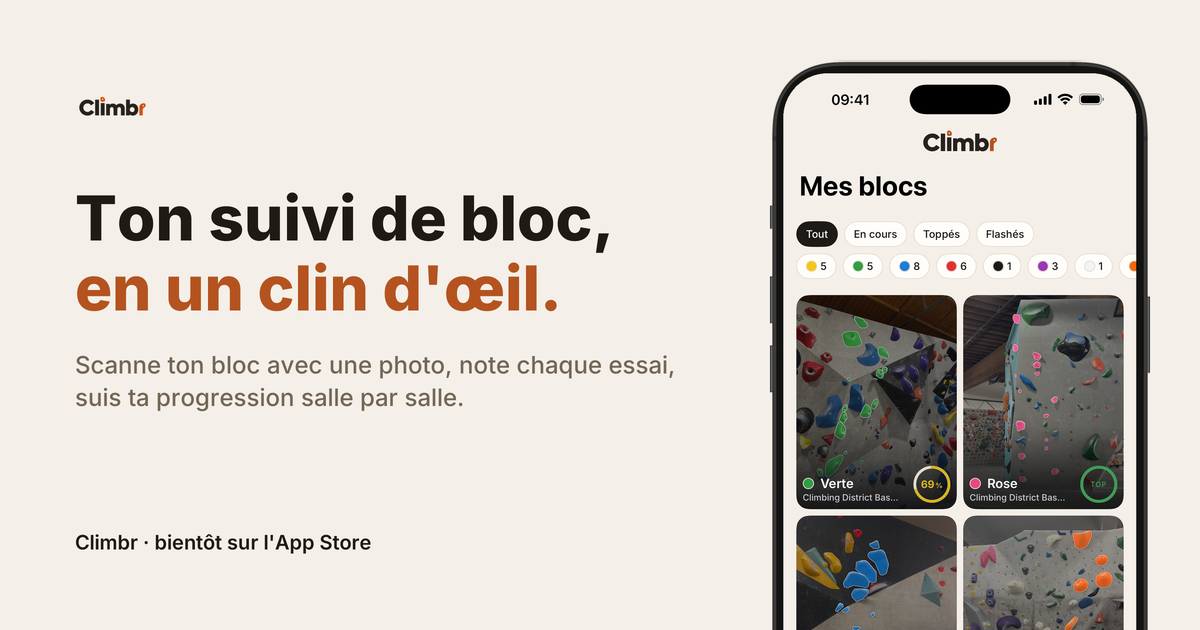
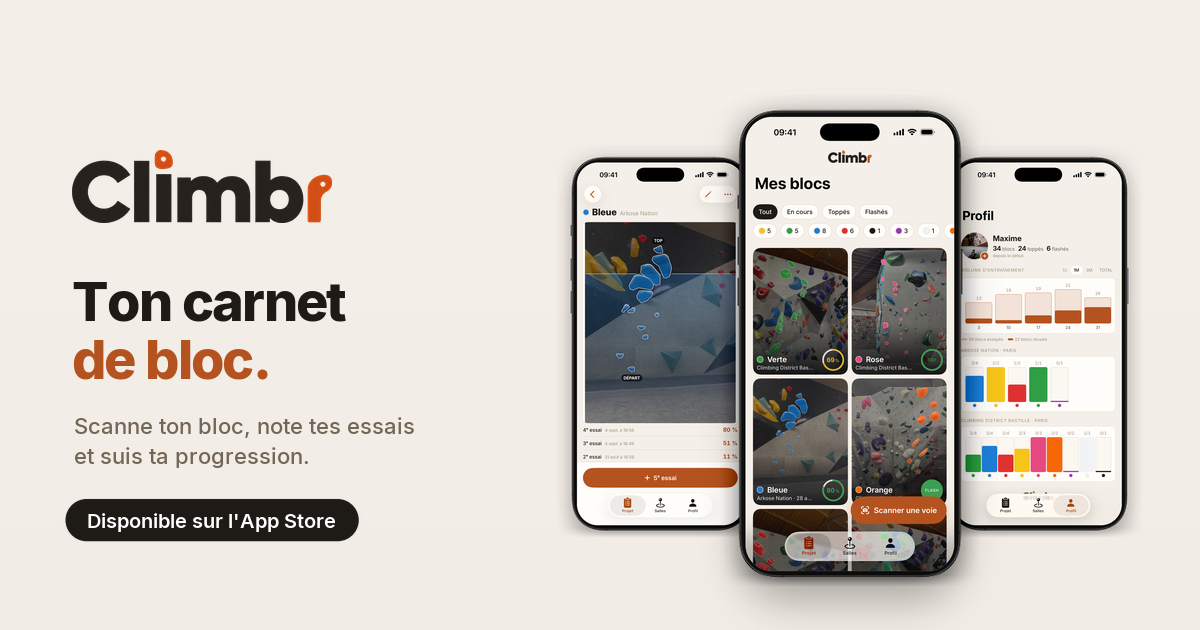
Climbr : le site suit la sortie et la couverture Instagram
Titre « Ton carnet de bloc », sous-titre « Scanne ton bloc, note tes essais
et suis ta progression », lien App Store dans la navbar, le hero, la carte
finale et le pied de page. Le trio du hero reprend la couverture Instagram :
côtés à 80 %, centrés, recouverts de 10 px. Mail de l'app climbr@, mail du
studio contact@. Image de partage régénérée.

Claude-Session: https://claude.ai/code/session_016HCjEFUwLvcaV6eQVwG82k

diff --git a/climbr/index.html b/climbr/index.html
@@ -3,8 +3,8 @@
 <head>
     <meta charset="UTF-8">
     <meta name="viewport" content="width=device-width, initial-scale=1.0">
-    <title>Climbr — Ton suivi de bloc en un clin d'œil</title>
-    <meta name="description" content="Climbr est le carnet de bloc de ceux qui grimpent en salle. Scanne ton bloc avec une photo, note chaque essai, suis ta progression salle par salle.">
+    <title>Climbr — Ton carnet de bloc</title>
+    <meta name="description" content="Climbr est le carnet de bloc de ceux qui grimpent en salle. Scanne ton bloc, note tes essais et suis ta progression, salle par salle. Disponible sur l'App Store.">
     <link rel="canonical" href="https://athanor-studio.io/climbr/">
     <meta name="theme-color" content="#F4EFE8">
 
@@ -12,18 +12,18 @@
     <meta property="og:type" content="website">
     <meta property="og:site_name" content="Climbr">
     <meta property="og:url" content="https://athanor-studio.io/climbr/">
-    <meta property="og:title" content="Climbr — Ton suivi de bloc en un clin d'œil">
-    <meta property="og:description" content="Scanne ton bloc avec une photo, note chaque essai, suis ta progression salle par salle.">
+    <meta property="og:title" content="Climbr — Ton carnet de bloc">
+    <meta property="og:description" content="Scanne ton bloc, note tes essais et suis ta progression. Disponible sur l'App Store.">
     <meta property="og:image" content="https://athanor-studio.io/climbr/og-image.png">
     <meta property="og:image:width" content="1200">
     <meta property="og:image:height" content="630">
-    <meta property="og:image:alt" content="Climbr — Ton suivi de bloc en un clin d'œil">
+    <meta property="og:image:alt" content="Climbr — Ton carnet de bloc">
     <meta property="og:locale" content="fr_FR">
 
     <!-- Twitter -->
     <meta name="twitter:card" content="summary_large_image">
-    <meta name="twitter:title" content="Climbr — Ton suivi de bloc en un clin d'œil">
-    <meta name="twitter:description" content="Scanne ton bloc avec une photo, note chaque essai, suis ta progression salle par salle.">
+    <meta name="twitter:title" content="Climbr — Ton carnet de bloc">
+    <meta name="twitter:description" content="Scanne ton bloc, note tes essais et suis ta progression. Disponible sur l'App Store.">
     <meta name="twitter:image" content="https://athanor-studio.io/climbr/og-image.png">
 
     <link rel="icon" href="../climbr_icon.png" type="image/png">
@@ -78,7 +78,7 @@
                 <a href="#fonctions" class="nav-link">Fonctions</a>
                 <a href="#comment" class="nav-link">Comment ça marche</a>
                 <a href="#support" class="nav-link">Support</a>
-                <span class="btn btn-ghost btn-sm">Bientôt sur l'App Store</span>
+                <a href="https://apps.apple.com/fr/app/climbr-progression-escalade/id6803155208" class="btn btn-primary btn-sm" target="_blank" rel="noopener">Télécharger</a>
             </div>
         </div>
     </nav>
@@ -88,16 +88,18 @@
         <div class="container hero-grid">
             <div class="hero-text fade-up">
                 <span class="eyebrow">Carnet de bloc · iPhone</span>
-                <h1 class="hero-title">Ton suivi de bloc,<br><span class="accent">en un clin d'œil.</span></h1>
-                <p class="hero-sub">Prends ton bloc en photo, touche la première prise : Climbr détoure ta voie. Note chaque essai, et suis ta progression salle par salle.</p>
+                <h1 class="hero-title">Ton carnet <span class="accent">de bloc.</span></h1>
+                <p class="hero-sub">Scanne ton bloc, note tes essais et suis ta progression. Une photo du mur, la première prise, et Climbr détoure ta voie.</p>
                 <div class="hero-cta">
-                    <span class="store-badge soon" aria-label="Bientôt disponible sur l'App Store">
+                    <a href="https://apps.apple.com/fr/app/climbr-progression-escalade/id6803155208" class="store-badge" target="_blank" rel="noopener" aria-label="Télécharger Climbr dans l'App Store">
                         <svg viewBox="0 0 24 24" fill="currentColor" aria-hidden="true"><path d="M18.71 19.5c-.83 1.24-1.71 2.45-3.05 2.47-1.34.03-1.77-.79-3.29-.79-1.53 0-2 .77-3.27.82-1.31.05-2.3-1.32-3.14-2.53C4.25 17 2.94 12.45 4.7 9.39c.87-1.52 2.43-2.48 4.12-2.51 1.28-.02 2.5.87 3.29.87.78 0 2.26-1.07 3.8-.91.65.03 2.47.26 3.64 1.98-.09.06-2.17 1.28-2.15 3.81.03 3.02 2.65 4.03 2.68 4.04-.03.07-.42 1.44-1.38 2.83M13 3.5c.73-.83 1.94-1.46 2.94-1.5.13 1.17-.34 2.35-1.04 3.19-.69.85-1.83 1.51-2.95 1.42-.15-1.15.41-2.35 1.05-3.11z"/></svg>
-                        <span><small>Bientôt sur l'</small><strong>App Store</strong></span>
-                    </span>
+                        <span><small>Télécharger dans l'</small><strong>App Store</strong></span>
+                    </a>
                 </div>
                 <ul class="hero-trust">
+                    <li>Gratuit</li>
                     <li>Sans pub</li>
+                    <li>Sans compte</li>
                 </ul>
             </div>
 
@@ -141,7 +143,7 @@
                 </article>
                 <article class="feature">
                     <div class="feature-icon" aria-hidden="true"><svg viewBox="0 0 24 24" fill="none" stroke="currentColor" stroke-width="1.8" stroke-linecap="round" stroke-linejoin="round"><rect x="3" y="4" width="18" height="16" rx="3"/><path d="M3 10h18M8 4v6M16 4v6"/></svg></div>
-                    <h3>Ton suivi de bloc en un clin d'œil</h3>
+                    <h3>Suis où tu en es sur chaque bloc</h3>
                     <p>Chaque bloc sur sa photo, trié par couleur de circuit. En cours, toppés, flashés : un disque de progression par bloc dit où tu en es.</p>
                 </article>
                 <article class="feature">
@@ -185,11 +187,11 @@
         <div class="container">
             <div class="final-card fade-up">
                 <div>
-                    <h2>Bientôt sur l'App Store.</h2>
-                    <p>Climbr arrive sur iPhone. En attendant, une question, une salle à ajouter, une idée : écris-nous.</p>
-                    <a href="mailto:guillaume@athanor-studio.io?subject=Climbr" class="store-badge">
-                        <svg viewBox="0 0 24 24" fill="none" stroke="currentColor" stroke-width="1.8" stroke-linecap="round" stroke-linejoin="round" aria-hidden="true"><rect x="2" y="4" width="20" height="16" rx="2"/><path d="m22 7-8.97 5.7a1.94 1.94 0 0 1-2.06 0L2 7"/></svg>
-                        <span><small>Nous écrire</small><strong>guillaume@athanor-studio.io</strong></span>
+                    <h2>Disponible sur l'App Store.</h2>
+                    <p>Climbr est sur iPhone, gratuit et sans compte. Une question, une salle à ajouter, une idée : <a href="mailto:climbr@athanor-studio.io">climbr@athanor-studio.io</a>.</p>
+                    <a href="https://apps.apple.com/fr/app/climbr-progression-escalade/id6803155208" class="store-badge" target="_blank" rel="noopener" aria-label="Télécharger Climbr dans l'App Store">
+                        <svg viewBox="0 0 24 24" fill="currentColor" aria-hidden="true"><path d="M18.71 19.5c-.83 1.24-1.71 2.45-3.05 2.47-1.34.03-1.77-.79-3.29-.79-1.53 0-2 .77-3.27.82-1.31.05-2.3-1.32-3.14-2.53C4.25 17 2.94 12.45 4.7 9.39c.87-1.52 2.43-2.48 4.12-2.51 1.28-.02 2.5.87 3.29.87.78 0 2.26-1.07 3.8-.91.65.03 2.47.26 3.64 1.98-.09.06-2.17 1.28-2.15 3.81.03 3.02 2.65 4.03 2.68 4.04-.03.07-.42 1.44-1.38 2.83M13 3.5c.73-.83 1.94-1.46 2.94-1.5.13 1.17-.34 2.35-1.04 3.19-.69.85-1.83 1.51-2.95 1.42-.15-1.15.41-2.35 1.05-3.11z"/></svg>
+                        <span><small>Télécharger dans l'</small><strong>App Store</strong></span>
                     </a>
                 </div>
                 <div class="final-phone">
@@ -210,7 +212,7 @@
             <div class="support fade-up">
                 <div class="support-card">
                     <h3>Nous écrire</h3>
-                    <p>Un bug, une salle qui manque, une prise mal détourée : <a href="mailto:guillaume@athanor-studio.io?subject=Climbr">guillaume@athanor-studio.io</a>. Réponse sous quelques jours.</p>
+                    <p>Un bug, une salle qui manque, une prise mal détourée : <a href="mailto:climbr@athanor-studio.io">climbr@athanor-studio.io</a>. Réponse sous quelques jours.</p>
                 </div>
                 <div class="support-card">
                     <h3>Tes données</h3>
@@ -229,6 +231,7 @@
         <div class="container footer-inner">
             <span>&copy; 2026 Athanor Studio</span>
             <div class="footer-links">
+                <a href="https://apps.apple.com/fr/app/climbr-progression-escalade/id6803155208" target="_blank" rel="noopener">App Store</a>
                 <a href="../">Athanor Studio</a>
                 <a href="../privacy.html">Confidentialité</a>
                 <a href="#support">Support</a>

diff --git a/climbr/styles.css b/climbr/styles.css
@@ -85,14 +85,20 @@ a { color: inherit; text-decoration: none; }
 .hero-trust li { font-size: var(--fs-small); font-weight: 500; color: var(--ink-soft); background: var(--surface); border: 1px solid var(--line); border-radius: var(--radius-full); padding: 0.35rem 0.8rem; }
 
 /* Téléphones : le vrai boîtier, un écran dedans */
-.phones { position: relative; height: 600px; display: flex; justify-content: center; align-items: flex-end; }
-.phone { position: absolute; bottom: 0; width: 250px; aspect-ratio: 886 / 1851; filter: drop-shadow(0 30px 40px rgba(30, 26, 22, 0.28)); }
+/* Le trio de la couverture Instagram : même boîtier trois fois, les côtés
+   à 80 % (derrière, donc plus petits), centrés sur le central, recouverts
+   de quelques pixels seulement — ⚠ à 86 % et recouverts d'un sixième, les
+   côtés se lisaient comme des téléphones plus étroits. */
+.phones { position: relative; height: 560px; display: flex; justify-content: center; align-items: center; }
+.phone { position: absolute; top: 50%; width: 240px; aspect-ratio: 886 / 1851; transform: translateY(-50%); filter: drop-shadow(0 30px 40px rgba(30, 26, 22, 0.28)); }
 .phone-screen { position: absolute; left: 3.5%; top: 1.67%; width: 92.9%; height: 96.65%; border-radius: 11.6% / 5.55%; overflow: hidden; background: #000; }
 .phone-screen img { width: 100%; height: 100%; object-fit: cover; }
 .phone-frame { position: absolute; inset: 0; width: 100%; height: 100%; pointer-events: none; }
-.phone-center { z-index: 3; width: 268px; }
-.phone-left { z-index: 2; transform: translateX(-150px) scale(0.86); transform-origin: bottom center; }
-.phone-right { z-index: 2; transform: translateX(150px) scale(0.86); transform-origin: bottom center; }
+.phone-center { z-index: 3; }
+.phone-left, .phone-right { z-index: 2; filter: drop-shadow(0 20px 30px rgba(30, 26, 22, 0.18)); }
+/* 206 px = demi-largeur du central (120) + demi-largeur du côté (96) − 10 px de recouvrement */
+.phone-left { transform: translate(-206px, -50%) scale(0.8); }
+.phone-right { transform: translate(206px, -50%) scale(0.8); }
 
 /* Sections */
 .section { padding: var(--section-padding) 0; }
@@ -125,6 +131,7 @@ a { color: inherit; text-decoration: none; }
 .final-card { background: var(--ink); color: #F4EFE8; border-radius: var(--radius-lg); padding: clamp(2rem, 5vw, 3.5rem); display: grid; grid-template-columns: minmax(0, 1.2fr) minmax(0, 0.8fr); gap: 2rem; align-items: center; overflow: hidden; position: relative; }
 .final-card h2 { font-size: var(--fs-h2); font-weight: 800; letter-spacing: var(--letter-tight); line-height: 1.1; }
 .final-card p { margin-top: 0.9rem; color: rgba(244, 239, 232, 0.75); }
+.final-card p a { color: #F4EFE8; text-decoration: underline; text-underline-offset: 3px; }
 .final-card .store-badge { background: #F4EFE8; color: var(--ink); margin-top: 1.5rem; }
 .final-phone { justify-self: center; width: 230px; aspect-ratio: 886 / 1851; position: relative; margin-bottom: -45%; }
 
@@ -150,7 +157,7 @@ a { color: inherit; text-decoration: none; }
 @media (max-width: 1200px) { .phones { transform: scale(0.85); transform-origin: bottom center; } }
 @media (max-width: 1024px) {
     .hero-grid { grid-template-columns: 1fr; }
-    .phones { height: 560px; margin-top: 1rem; }
+    .phones { margin-top: 1rem; }
     .final-card { grid-template-columns: 1fr; }
     .final-phone { margin-bottom: -60%; }
 }
@@ -159,6 +166,6 @@ a { color: inherit; text-decoration: none; }
     .nav-links.open { display: flex; }
     .nav-burger { display: flex; }
     .features-grid, .steps { grid-template-columns: 1fr; }
-    .phones { transform: scale(0.7); height: 440px; }
+    .phones { transform: scale(0.7); height: 420px; }
 }
-@media (max-width: 480px) { .phones { transform: scale(0.56); height: 360px; } }
+@media (max-width: 480px) { .phones { transform: scale(0.56); height: 340px; } }

diff --git a/index.html b/index.html
@@ -167,7 +167,7 @@
                         </div>
                     </div>
                     <p class="app-description">The indoor bouldering logbook. Photograph the wall, tap the first hold and Climbr outlines your route. Log every attempt, track your progress gym by gym.</p>
-                    <span class="status-badge">Coming Soon</span>
+                    <span class="status-badge">Now on the App Store</span>
                     <span class="app-cta">Learn more <span aria-hidden="true">&rarr;</span></span>
                 </a>
             </div>
@@ -198,7 +198,7 @@
             <div class="fade-up">
                 <p class="eyebrow">Contact</p>
                 <h2 class="section-title">Get in Touch</h2>
-                <a href="mailto:guillaume@athanor-studio.io" class="contact-email">guillaume@athanor-studio.io</a>
+                <a href="mailto:contact@athanor-studio.io" class="contact-email">contact@athanor-studio.io</a>
             </div>
         </div>
     </section>
@@ -232,7 +232,7 @@
             </div>
             <div class="footer-bottom">
                 <span>&copy; 2026 Athanor Studio. All rights reserved.</span>
-                <a href="mailto:guillaume@athanor-studio.io" class="footer-link">guillaume@athanor-studio.io</a>
+                <a href="mailto:contact@athanor-studio.io" class="footer-link">contact@athanor-studio.io</a>
             </div>
         </div>
     </footer>

diff --git a/CLAUDE.md b/CLAUDE.md
@@ -80,16 +80,19 @@ disque   : cx 50, cy 63, r 11     (plein)
   - **Responsive du trio de mockups** : largeur fixe → géré par `transform: scale()` par palier (>1440 pleine taille / 1201-1440 `.phones` 0.85 / bascule 1 colonne ≤1200 / 820 → 0.82 / 600 → 0.64 / 400 → 0.52) + `min-width:0` sur les cellules du hero pour éviter tout débordement horizontal.
   - **Partage/SEO** : image OG dédiée `healthyguru/og-image.png` (carte verte : logo + accroche + mockup dashboard) + balises OG/Twitter/canonical/theme-color dans le `<head>`. Régénérable via le pipeline « carte HTML → Chrome headless `--screenshot` → `sips -z 630 1200` » (voir historique).
   - **Statut** : refonte complète faite et **déployée en live** (bilingue, trio vrais screenshots, features/comparaison/stepper/avis/CTA carte, thème vert, responsive, OG/SEO). Reste UNIQUEMENT : vérif des métriques 4,6★/500+ et des notes d'avis dans App Store Connect (laissées telles quelles).
-- **Climbr** — carnet de bloc en salle (Sports), app d'Athanor Studio en cours de soumission (V1, septembre 2026). Pas encore de lien App Store : carte « Coming Soon » sur l'index, cliquable vers `/climbr`.
-  - Page dédiée : `/climbr` (dossier `climbr/`), **français uniquement** — l'app est en français. Sections : navbar / hero (titre « Ton suivi de bloc, en un clin d'œil. », trio de vrais écrans dans le vrai boîtier) / Fonctions (4 cartes = les 4 titres des captures App Store) / Comment ça marche (3 gestes) / CTA sombre (mail) / Support (`#support`) / footer.
+- **Climbr** — carnet de bloc en salle (Sports), app d'Athanor Studio **en ligne depuis le 10 septembre 2026** : https://apps.apple.com/fr/app/climbr-progression-escalade/id6803155208. Carte « Now on the App Store » sur l'index, cliquable vers `/climbr` ; pas encore de métriques (notes, avis) à afficher.
+  - Page dédiée : `/climbr` (dossier `climbr/`), **français uniquement** — l'app est en français. Sections : navbar (bouton « Télécharger ») / hero (titre « Ton carnet de bloc. », sous-titre « Scanne ton bloc, note tes essais et suis ta progression. », trio de vrais écrans dans le vrai boîtier) / Fonctions (4 cartes) / Comment ça marche (3 gestes) / CTA sombre (App Store + mail) / Support (`#support`) / footer.
+  - **Le trio du hero reprend la couverture Instagram du 10 septembre 2026** : même boîtier trois fois, les côtés à `scale(0.8)` centrés verticalement sur le central, recouverts de 10 px seulement. ⚠ À 86 % et recouverts d'un sixième, les côtés se lisaient comme des téléphones plus étroits — c'est ce qui a été refusé sur Instagram. Les posts et le script qui les rend sont dans `~/Desktop/Climbr/instagram/`.
+  - **Mail de l'app : `climbr@athanor-studio.io`** (CTA et Support). Le studio, lui, est joignable sur `contact@athanor-studio.io` (index). ⚠ `privacy.html` porte encore `guillaume@athanor-studio.io`.
+  - `climbr/og-image.png` est régénérée avec Pillow depuis les captures App Store (logo, titre, pastille « Disponible sur l'App Store », trio).
   - Sert d'**URL marketing** (`/climbr/`) et d'**URL d'assistance** (`/climbr/#support`) dans App Store Connect ; la politique de confidentialité reste `/privacy.html`.
-  - Quand l'app sort : remplacer les deux `.store-badge.soon` par un lien App Store, et sur l'index remplacer le `status-badge` par les métriques comme Healthy Guru.
+  - Quand il y aura des avis : remplacer le `status-badge` de l'index par les métriques comme Healthy Guru.
   - Les textes viennent de la fiche App Store (nom « Climbr – Progression Escalade », sous-titre « Scanne ton bloc avec une photo »). Tutoiement, comme Healthy Guru.
 - **Clash List** — Quiz Game, "Challenge your friends in 45-second word duels."
   - Pas encore lancée. Carte affiche un badge `.status-badge` "Coming Soon" à la place des `app-metrics` + `app-links`. Quand l'app sortira, remplacer le `<span class="status-badge">` par les blocs métriques + store comme Healthy Guru.
 
 ## Contact
-- Fondateur : Guillaume — guillaume@athanor-studio.io
+- Fondateur : Guillaume — contact@athanor-studio.io (studio), climbr@athanor-studio.io (Climbr)
 
 ## Notes / pièges connus
 - Pas de backend, et **plus de formulaire** : le contact se fait par un lien `mailto:` direct. Si un vrai formulaire est souhaité un jour, il faudra Formspree ou équivalent — un `<form action="mailto:">` ne marche pas.
